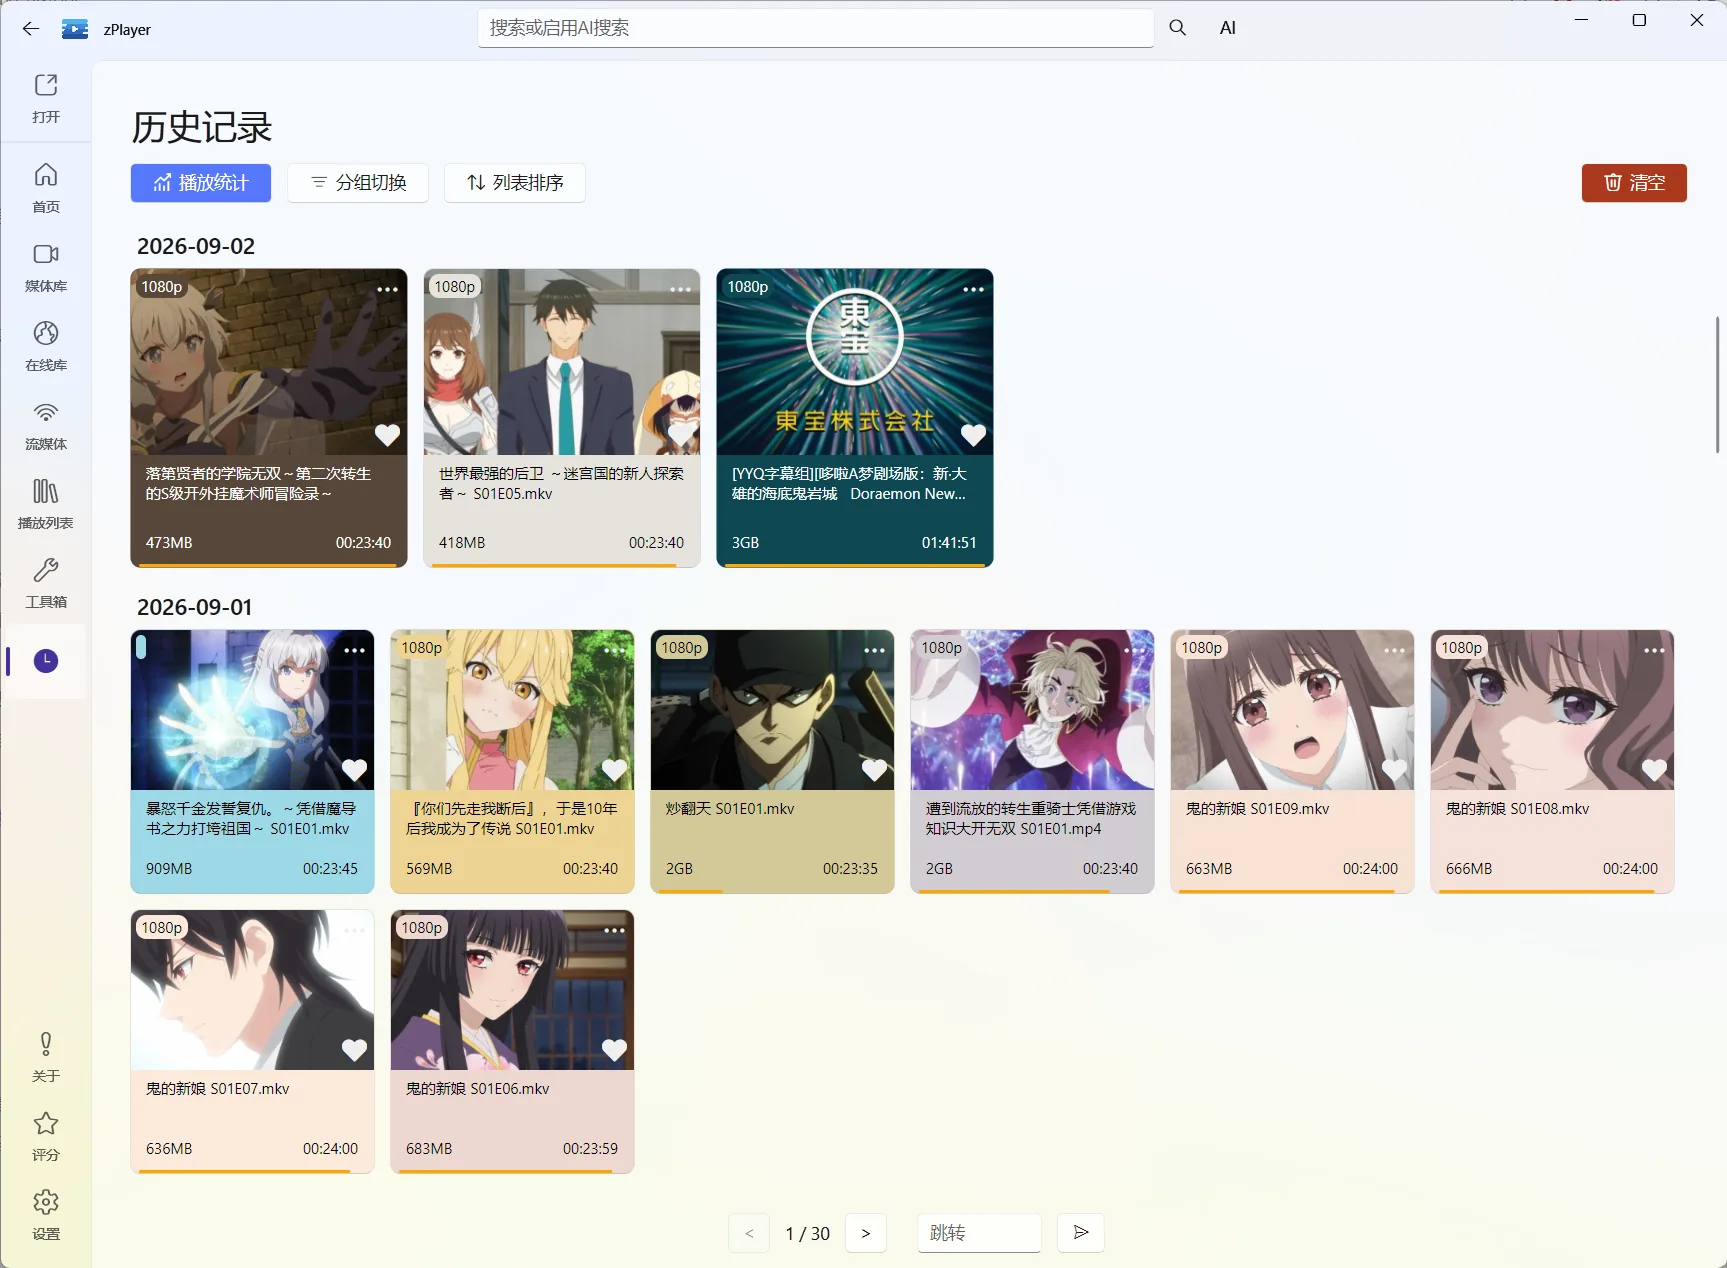
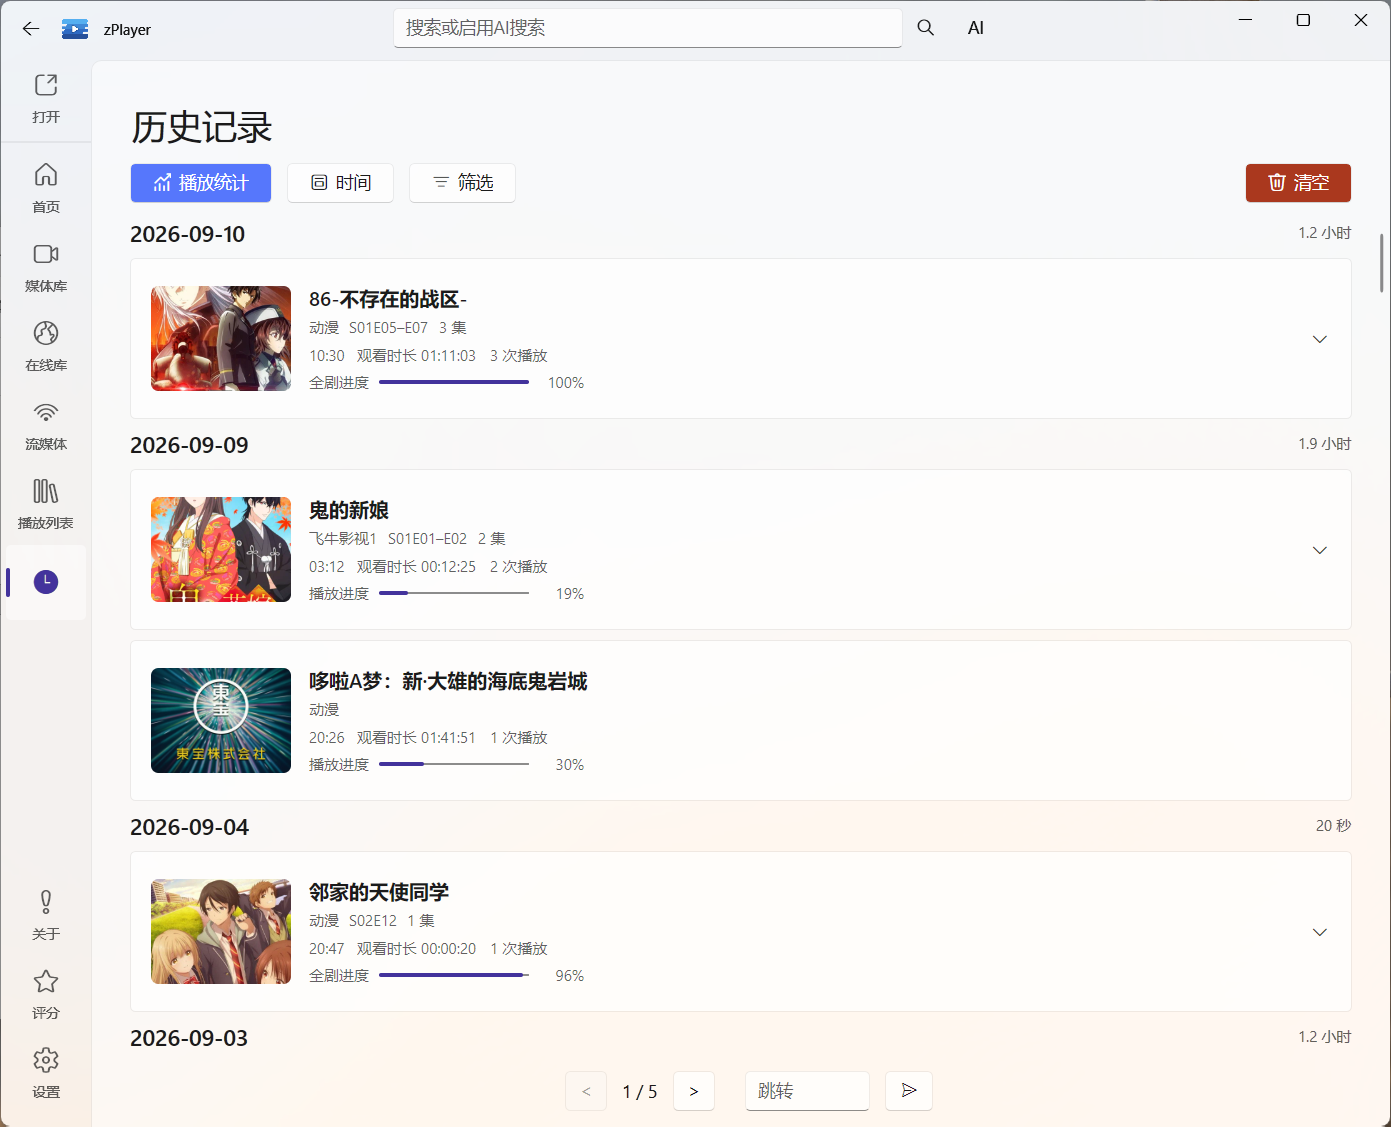
补齐官网历史记录及观看统计相关界面截图

diff --git a/docs/.vitepress/theme/custom.css b/docs/.vitepress/theme/custom.css
@@ -414,6 +414,10 @@
   grid-template-columns: minmax(0, 1.2fr) minmax(280px, 0.8fr);
 }
 
+.zplayer-home-history-stage {
+  row-gap: 32px;
+}
+
 .zplayer-home-connection-copy h2,
 .zplayer-home-detail-copy h2,
 .zplayer-home-history-copy h2 {
@@ -468,14 +472,26 @@
 }
 
 .zplayer-home-file-stage .zplayer-home-feature-image,
-.zplayer-home-history-stage .zplayer-home-history-guide {
+.zplayer-home-history-stage .zplayer-home-history-image {
   order: 1;
+}
+
+.zplayer-home-history-image {
+  cursor: zoom-in;
+}
+
+.zplayer-home-history-image:focus-visible {
+  outline: 2px solid var(--vp-c-brand-1);
+  outline-offset: 4px;
 }
 
 .zplayer-home-history-guide {
   display: grid;
+  grid-template-columns: repeat(3, minmax(0, 1fr));
+  grid-column: 1 / -1;
   gap: 16px;
   min-width: 0;
+  order: 3;
 }
 
 .vp-doc .zplayer-home-history-copy h2 {
@@ -842,6 +858,15 @@
     grid-template-columns: 1fr;
   }
 
+  .zplayer-home-history-stage .zplayer-home-history-copy,
+  .zplayer-home-history-stage .zplayer-home-history-image {
+    order: initial;
+  }
+
+  .zplayer-home-history-guide {
+    grid-template-columns: 1fr;
+  }
+
   .zplayer-home-advantage-grid {
     grid-template-columns: repeat(2, 1fr);
   }
@@ -917,9 +942,7 @@
   }
 
   .zplayer-home-file-stage .zplayer-home-feature-copy,
-  .zplayer-home-file-stage .zplayer-home-feature-image,
-  .zplayer-home-history-stage .zplayer-home-history-copy,
-  .zplayer-home-history-stage .zplayer-home-history-guide {
+  .zplayer-home-file-stage .zplayer-home-feature-image {
     order: initial;
   }
 

diff --git a/docs/docs/media/history/playback-statistics.md b/docs/docs/media/history/playback-statistics.md
@@ -1,8 +1,17 @@
+<script setup>
+import statisticsScreenshot from '../../../assets/screenshots/history-playback-statistics.webp'
+</script>
+
 # 播放统计：看懂自己的观看习惯
 
 播放统计把本地观看历史整理成累计时长、播放次数、活跃天数、观看日历、来源与类型分布，以及作品排行。页面上的指标和图表可以继续打开对应记录，方便核对数字来自哪些播放。
 
 本页介绍的是“历史记录”上方的播放统计。播放器菜单“属性 → 播放统计”展示当前播放过程中的实时技术信息，入口和用途不同。
+
+<a v-bind="{ href: statisticsScreenshot }" target="_blank" rel="noopener" aria-label="查看播放统计界面大图">
+  <img class="zplayer-screenshot" src="../../../assets/screenshots/history-playback-statistics.webp" width="1701" height="1222" loading="lazy" decoding="async" alt="zPlayer 播放统计页面，展示观看时长、播放次数、活跃天数、观看日历、媒体数量、观看状态、数据源和类型偏好" />
+</a>
+<p class="zplayer-screenshot-caption">图：从观看总览、日历和来源分布了解观看习惯，并继续查看对应记录。点击截图可查看大图。</p>
 
 ## 进入与筛选
 

diff --git a/docs/index.md b/docs/index.md
@@ -16,6 +16,10 @@ hero:
       link: /docs/
 ---
 
+<script setup>
+import historyScreenshot from './assets/screenshots/history.webp'
+</script>
+
 <div class="zplayer-home-landing">
   <section class="zplayer-home-showcase">
     <div class="zplayer-home-showcase-copy">
@@ -145,6 +149,9 @@ hero:
       </ul>
       <a class="zplayer-home-inline-link" href="./docs/media/history">查看历史记录使用文档 <span>→</span></a>
     </div>
+    <a class="zplayer-home-history-image" v-bind="{ href: historyScreenshot }" target="_blank" rel="noopener" aria-label="查看历史记录界面大图">
+      <img src="./assets/screenshots/history.webp" width="1391" height="1127" loading="lazy" decoding="async" alt="zPlayer 历史记录页面，按日期展示作品缩略图、剧集范围、播放次数和观看进度" />
+    </a>
     <nav class="zplayer-home-history-guide" aria-label="观看记录功能文档">
       <a class="zplayer-home-history-guide-link" href="./docs/media/history/work-details">
         <span class="zplayer-home-history-guide-number" aria-hidden="true">01</span>

diff --git a/docs/docs/media/history/work-details.md b/docs/docs/media/history/work-details.md
@@ -1,6 +1,15 @@
+<script setup>
+import workScreenshot from '../../../assets/screenshots/history-work-details.webp'
+</script>
+
 # 作品观看详情：查看一部作品的完整历程
 
 作品观看详情是一个独立页面，把同一部作品的多次播放、不同季度和已确认的不同来源放在一起。这里既能查看累计数据，也能展开到某一天、某一集、某一次播放。
+
+<a v-bind="{ href: workScreenshot }" target="_blank" rel="noopener" aria-label="查看作品观看详情界面大图">
+  <img class="zplayer-screenshot" src="../../../assets/screenshots/history-work-details.webp" width="1391" height="1127" loading="lazy" decoding="async" alt="zPlayer 作品观看详情页面，展示邻家的天使同学的全剧进度、累计观看数据、观看趋势与分季进度" />
+</a>
+<p class="zplayer-screenshot-caption">图：围绕一部作品查看累计观看数据、观看趋势与分季进度。点击截图可查看大图。</p>
 
 ## 从哪里进入
 

diff --git a/docs/docs/media/history/viewing-recap.md b/docs/docs/media/history/viewing-recap.md
@@ -1,6 +1,15 @@
+<script setup>
+import recapScreenshot from '../../../assets/screenshots/history-viewing-recap.webp'
+</script>
+
 # 观看回顾：翻看一个月或一年的片单
 
 观看回顾按月份或年份整理观看经历：这一期间从哪部作品开始、最近停在哪一集、重看了什么、看完了哪一季，或者隔了一段时间又接着看了哪部剧。
+
+<a v-bind="{ href: recapScreenshot }" target="_blank" rel="noopener" aria-label="查看观看回顾界面大图">
+  <img class="zplayer-screenshot" src="../../../assets/screenshots/history-viewing-recap.webp" width="1446" height="1222" loading="lazy" decoding="async" alt="zPlayer 2026 年 7 月观看回顾，展示本月第一次与最后一次观看的作品、剧集、时间和简介，以及本月片单" />
+</a>
+<p class="zplayer-screenshot-caption">图：按月翻看第一次与最后一次观看，再从本月片单找回看过的作品。点击截图可查看大图。</p>
 
 ## 进入与选择时间
 

diff --git a/docs/docs/media/history.md b/docs/docs/media/history.md
@@ -1,6 +1,15 @@
+<script setup>
+import historyScreenshot from '../../assets/screenshots/history.webp'
+</script>
+
 # 历史记录：按日期找回每次观看
 
 历史记录按“日期 → 作品或文件 → 当天的播放明细”整理观看足迹。你可以展开剧集、找回一次播放、删除某次记录，也可以进入一部作品的完整观看历程。
+
+<a v-bind="{ href: historyScreenshot }" target="_blank" rel="noopener" aria-label="查看历史记录界面大图">
+  <img class="zplayer-screenshot" src="../../assets/screenshots/history.webp" width="1391" height="1127" loading="lazy" decoding="async" alt="zPlayer 历史记录页面，按日期显示作品、来源、剧集范围、播放次数与观看进度" />
+</a>
+<p class="zplayer-screenshot-caption">图：按日期找回看过的作品，查看来源、播放次数和当时的观看进度。点击截图可查看大图。</p>
 
 ## 从哪里进入
 
